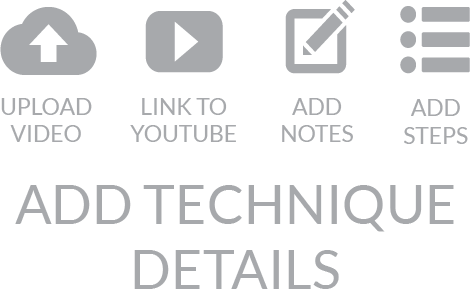
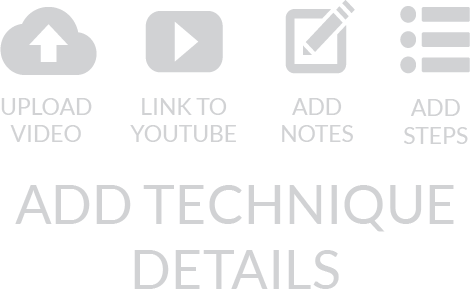
bleh

diff --git a/app/assets/stylesheets/position.css.scss b/app/assets/stylesheets/position.css.scss
@@ -363,16 +363,16 @@ html.touch *:hover {
 }
 
 .addPos:hover {
-  border-color: #99d4d1;
+  border-color: #02ceff;
   transform: scale(1.05);
-  color: #99d4d1;
+  color: #02ceff;
   -webkit-transition: all 0.15s ease-in;
   -moz-transition: all 0.15s ease-in;
   transition: all 0.15s ease-in;
 }
 
 .addPos:hover .fa-plus{
-  color: #99d4d1;
+  color: #02ceff;
   transform: scale(1.2);
   -webkit-transition: all 0.15s ease-in;
   -moz-transition: all 0.15s ease-in;
@@ -421,7 +421,7 @@ html.touch *:hover {
 }
 
 .position-a:hover .positionspan:hover {
-  color: #99d4d1;
+  color: #02ceff;
   transform: scale(1.4);
   -webkit-transition: all 0.15s ease-in;
   -moz-transition: all 0.15s ease-in;
@@ -527,7 +527,7 @@ html.touch *:hover {
 }
 
 .bottom-intention-block {
-  margin-bottom: 40px;
+  margin-bottom: 60px;
 }
 
 .ttype-card-header {
@@ -567,7 +567,7 @@ html.touch *:hover {
 }
 
 .ttype-card-header:hover .ttypespan:hover {
-  color: #99d4d1;
+  color: #02ceff;
   -webkit-transition: all 0.15s ease;
   -moz-transition: all 0.15s ease;
   transition: all 0.15s ease;
@@ -606,13 +606,15 @@ html.touch *:hover {
   border-top-color: #fff;
 }
 
-.tech-row:hover{
-  z-index:999;
+.tech-row:hover .tech-a{
+/*  z-index:999;
   box-shadow:rgba(0, 0, 0, 0.3) 0 3px 3px 0;
   -webkit-box-shadow:rgba(0, 0, 0, 0.3) 0 3px 3px 0;
   -moz-box-shadow:rgba(0, 0, 0, 0.3) 0 3px 3px 0;
   background-color: #fff;  
-  border-top-color: #ececec;
+  border-top-color: #ececec;*/
+  color: #02ceff;
+  font-weight: 900;
   -webkit-transition: all 0.1s ease;
   -moz-transition: all 0.1s ease;
   -o-transition: all 0.1s ease;
@@ -700,16 +702,16 @@ html.touch *:hover {
 
 
 .addTech:hover {
-  border-color: #99d4d1;
+  border-color: #02ceff;
   transform: scale(1.05);
-  color: #99d4d1;
+  color: #02ceff;
   -webkit-transition: all 0.15s ease-in;
   -moz-transition: all 0.15s ease-in;
   transition: all 0.15s ease-in;
 }
 
 .addTech:hover .fa-plus{
-  color: #99d4d1;
+  color: #02ceff;
   transform: scale(1.3);
   -webkit-transition: all 0.15s ease-in;
   -moz-transition: all 0.15s ease-in;
@@ -750,8 +752,9 @@ input:focus {
   color: #fff;
 }
 
+/*my go to*/
 .prof-color1 {
-  background-color: #53ff5f;
+  background-color: #9954c9;
   width: 15px;
   margin-top: -10px;
   margin-right: -15px;
@@ -759,15 +762,28 @@ input:focus {
   float: right;
 }
 
+/*still needs work*/
 .prof-color2 {
-  background-color: #ffc24f;
+  background-color: #c5fb2a;
   width: 15px;  
   margin-top: -10px;
   margin-right: -15px;
   height: 48px;
   float: right;
 }
+
+/*started learning*/
 .prof-color3 {
+  background-color: #fbf22a;
+  width: 15px;
+  margin-top: -10px;
+  margin-right: -15px;
+  height: 48px;
+  float: right;
+}
+
+/*To be learned*/
+.prof-color4{
   background-color: #ddd;
   width: 15px;
   margin-top: -10px;
@@ -776,7 +792,8 @@ input:focus {
   float: right;
 }
 
-.prof-color4{
+
+.prof-color5{
   background-color: white;
   width: 15px;
   margin-top: -10px;
@@ -861,9 +878,11 @@ textarea {
 }
 
 .addNotes:hover {
-  background-color: #f2f0f0;
-  border-color: #c1bfbf;
-  color: #c1bfbf;
+  border-color: #02ceff;
+  color: #02ceff;
+  -webkit-transition: all 0.15s ease;
+  -moz-transition: all 0.15s ease;
+  transition: all 0.15s ease;
 }
 
 .step-container {
@@ -1020,12 +1039,12 @@ textarea {
 .icons {
   position: absolute;
   font-size: 30px !important;
-  color: #c3c3c3;
+  color: #a0afb2;
 }
 
 
 .no-touch .icons:hover {
-  color: #99d4d1;
+  color: #02ceff;
   transform: scale(1.3);
   -webkit-transition: all 0.15s ease-in;
   -moz-transition: all 0.15s ease-in;
@@ -1172,7 +1191,7 @@ padding-bottom: 60px;
 .edit-notes {
   margin-right: 10px;
   margin-bottom: -90px;
-  color: #c1bfbf;
+  color: #a5a5a5;
   background-color: transparent;
   border-color: white;
   padding-left: 0px;
@@ -1208,7 +1227,7 @@ padding-bottom: 60px;
 .deleteVideoBtn {
   margin-right: -30px;
   margin-bottom: -90px;
-  color: #c1bfbf;
+  color: #a5a5a5;
   background-color: transparent;
   border: none;
   padding-left: 0px;
@@ -1399,11 +1418,11 @@ padding-bottom: 60px;
 
 .tech-row:hover .techspan {
   display: inline;
-  color: #cecece;
+  color: #e3e3e3;
 }
 
 .tech-row:hover .techspan:hover {
-  color: #99d4d1;
+  color: #02ceff;
   -webkit-transition: all 0.15s ease;
   -moz-transition: all 0.15s ease;
   transition: all 0.15s ease;
@@ -1705,7 +1724,7 @@ padding-bottom: 60px;
 .angular-ripple {
   display: block;
   position: absolute;
-  background-color: rgba(182,222,220,.8);
+  /*background-color: rgba(182,222,220,.8);*/
   border-radius: 50%;
   transform: scale(0);
 }
@@ -1730,7 +1749,7 @@ padding-bottom: 60px;
 }
 
 .no-touch .fa-caret-down:hover {
-  color: #99d4d1;
+  color: #02ceff;
   transform: scale(1.4);
   -webkit-transition: all 0.15s ease;
   -moz-transition: all 0.15s ease;
@@ -1739,7 +1758,7 @@ padding-bottom: 60px;
 
 .fa-plus:hover {
   cursor: pointer;
-  color: #99d4d1;
+  color: #02ceff;
   transform: scale(1.2);
   -webkit-transition: all 0.15s ease;
   -moz-transition: all 0.15s ease;
